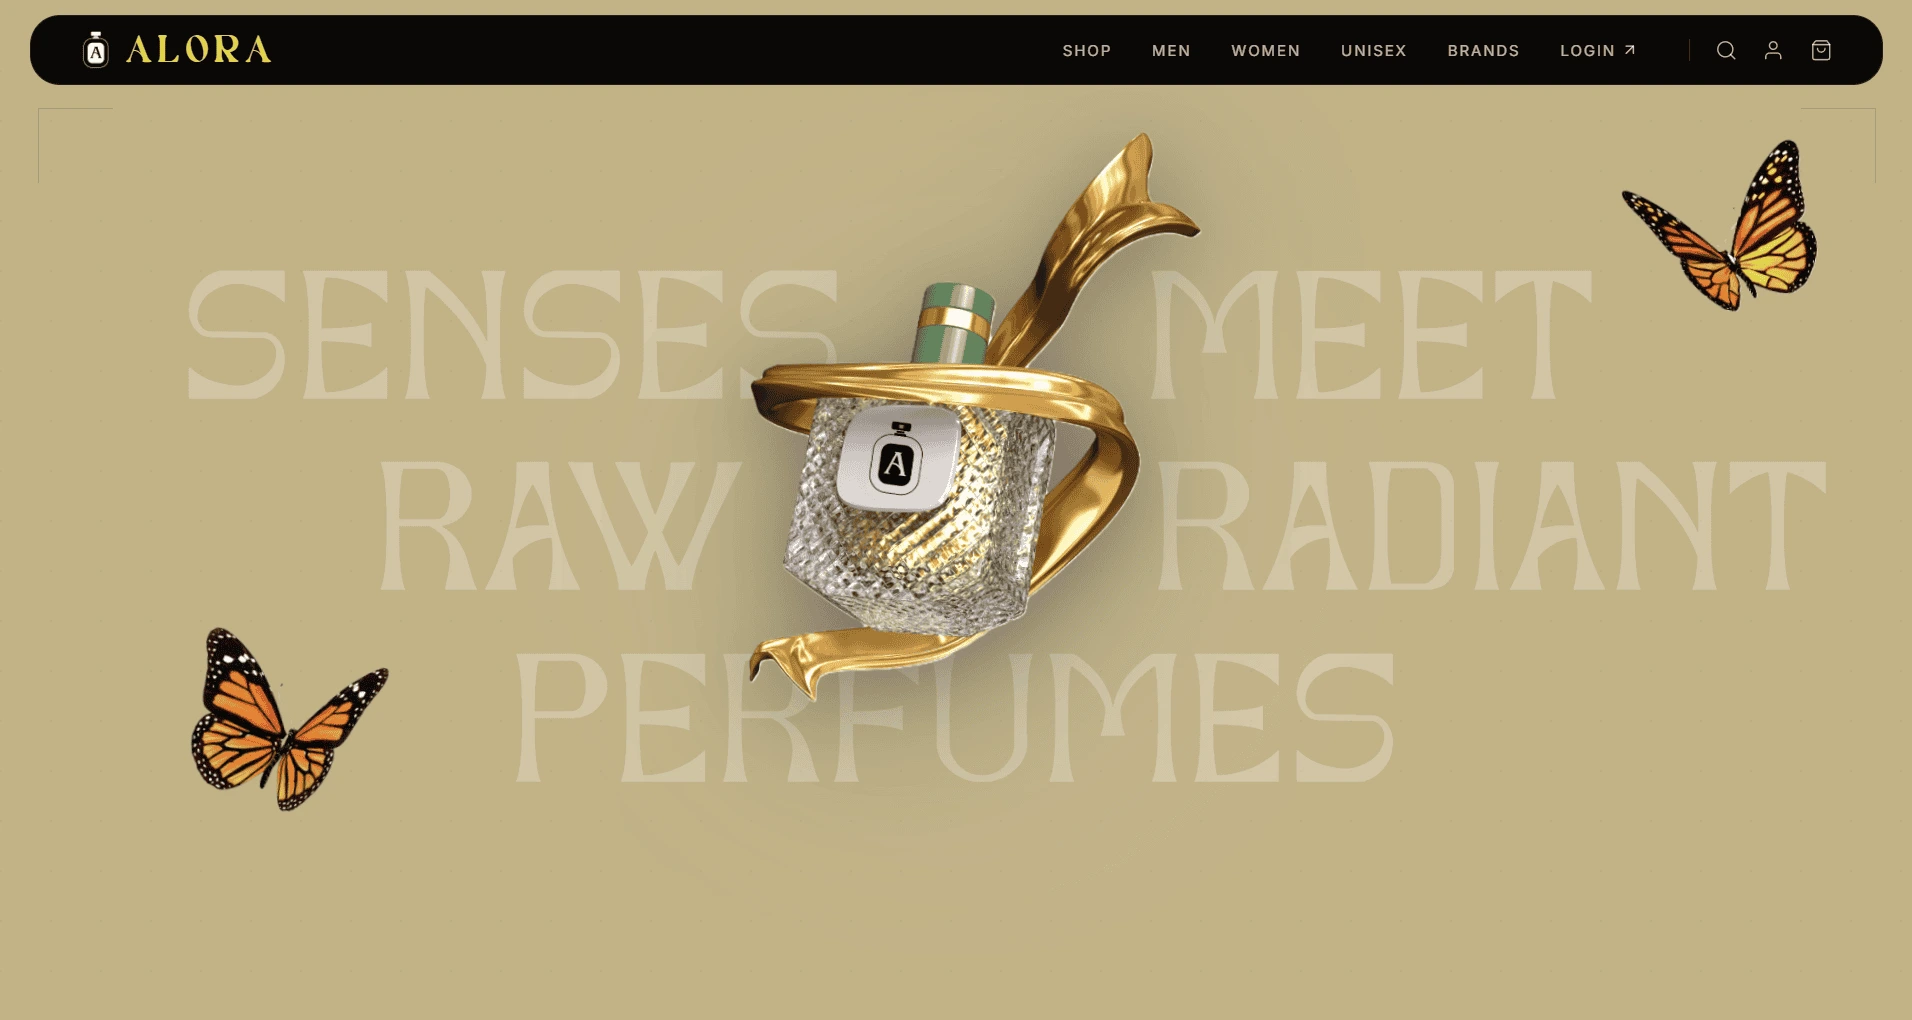
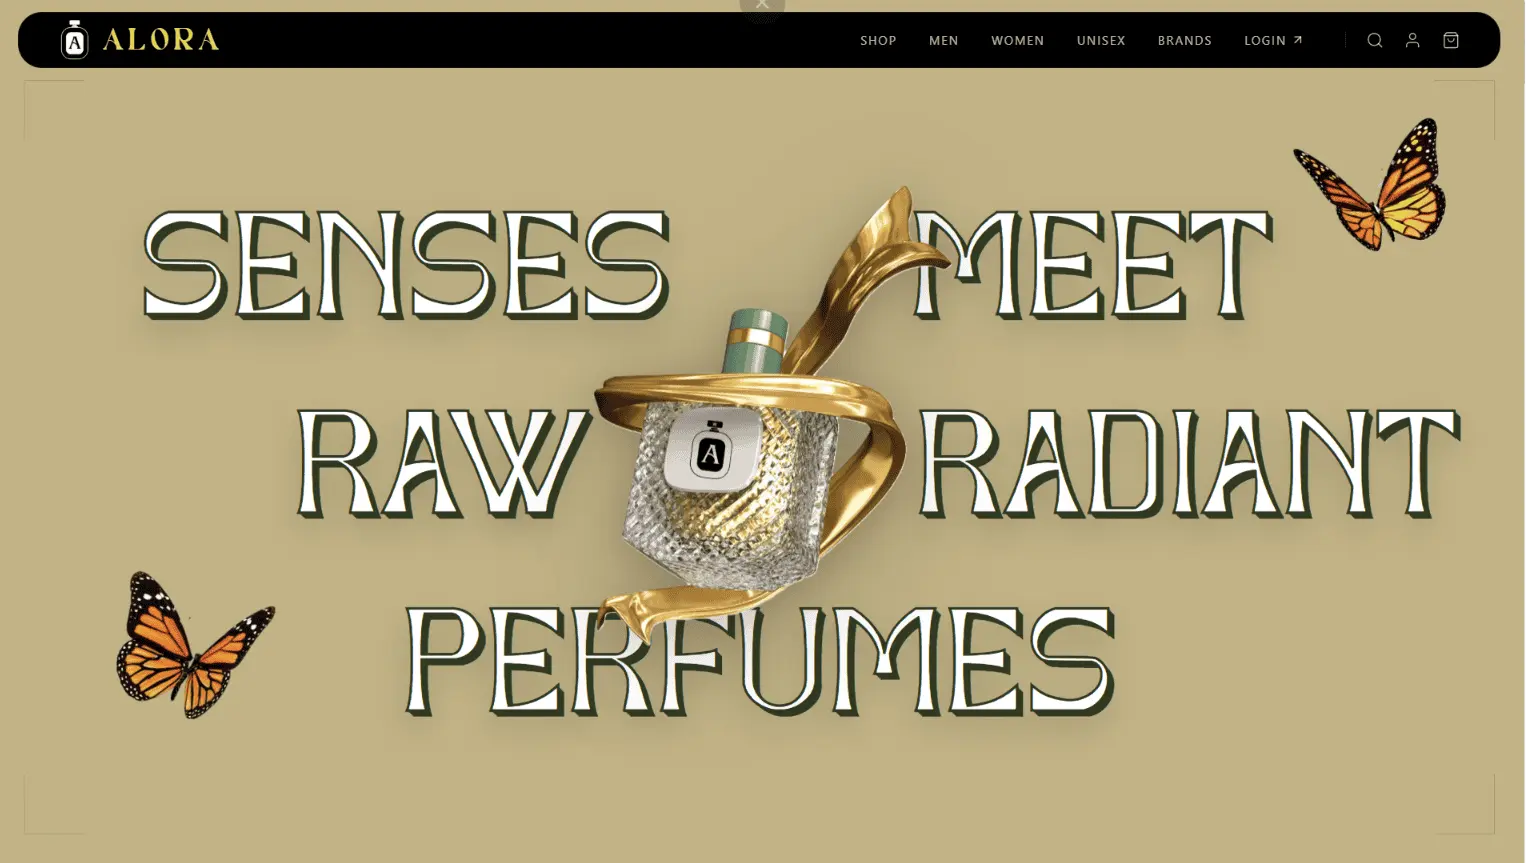
feat: project cards color UI updates.

diff --git a/src/app/sections/Projects.tsx b/src/app/sections/Projects.tsx
@@ -215,7 +215,7 @@ function Card({
       >
         <m.div
           className="w-full flex flex-col md:flex-row rounded-2xl overflow-hidden shadow-xl"
-          style={{ backgroundColor: '#574A49' }}
+          style={{ backgroundColor: '#3D5A30' }}
           whileHover={{
             boxShadow: `0 0 30px -5px ${color}40`,
             transition: { duration: 0.4 }
@@ -244,7 +244,7 @@ function Card({
             </div>
 
             {/* Custom Tech Stack Icons */}
-            <div className="flex items-center justify-center flex-wrap gap-1.5 px-3 py-1 bg-[#574A49]">
+            <div className="flex items-center justify-center flex-wrap gap-1.5 px-3 py-1 bg-[#3D5A30]">
               {(() => {
                 const customIcons: Record<string, { src: string; alt: string; bg: string; cls: string }> = {
                   socket: { src: "/icons/socket.svg", alt: "Socket", bg: "bg-white", cls: "w-full h-full object-contain" },
@@ -294,19 +294,19 @@ function Card({
             </div>
 
             {/* GitHub & Live Link */}
-            <div className="flex items-center justify-center gap-3 py-2 md:py-3 bg-[#574A49] relative z-20">
+            <div className="flex items-center justify-center gap-3 py-2 md:py-3 bg-[#3D5A30] relative z-20">
               <m.a
                 title="GitHub Link"
                 href={githubLink}
                 target="_blank"
                 rel="noopener noreferrer"
-                className="group flex items-center gap-2 px-3 py-1.5 md:px-4 md:py-2 rounded-none bg-green-500/15 hover:bg-green-500/50 border border-black transition-all cursor-pointer pointer-events-auto"
+                className="group flex items-center gap-2 px-3 py-1.5 md:px-4 md:py-2 rounded-none bg-sky-200 hover:bg-white border border-black transition-all cursor-pointer pointer-events-auto"
                 whileHover={{ y: -2, scale: 1.05 }}
                 transition={{ type: "spring", stiffness: 400 }}
                 style={{ pointerEvents: "auto" }}
               >
                 <Image src="/github.svg" alt="GitHub" width={18} height={18} className="inline-block align-middle" />
-                <span className="text-xs md:text-sm font-medium text-[#7fe525] ubuntu-font">Code</span>
+                <span className="text-xs md:text-sm font-bold text-[#121111] ubuntu-font">Code</span>
               </m.a>
 
               <m.a
@@ -314,13 +314,13 @@ function Card({
                 href={liveLink}
                 target="_blank"
                 rel="noopener noreferrer"
-                className="group flex items-center gap-2 px-3 py-1.5 md:px-4 md:py-2 rounded-none bg-blue-500/25 hover:bg-blue-500/55 border border-black transition-all cursor-pointer pointer-events-auto"
+                className="group flex items-center gap-2 px-3 py-1.5 md:px-4 md:py-2 rounded-none bg-sky-200 hover:bg-white border border-black transition-all cursor-pointer pointer-events-auto"
                 whileHover={{ y: -2, scale: 1.05 }}
                 transition={{ type: "spring", stiffness: 400 }}
                 style={{ pointerEvents: "auto" }}
               >
                 <Image src="https://img.icons8.com/glyph-neue/64/1A1A1A/globe--v1.png" alt="Live" width={20} height={20} className="inline-block align-middle" unoptimized />
-                <span className="text-xs md:text-sm font-medium text-[#7fe525] ubuntu-font">Live</span>
+                <span className="text-xs md:text-sm font-bold text-[#121111] ubuntu-font">Live</span>
               </m.a>
             </div>
           </div>